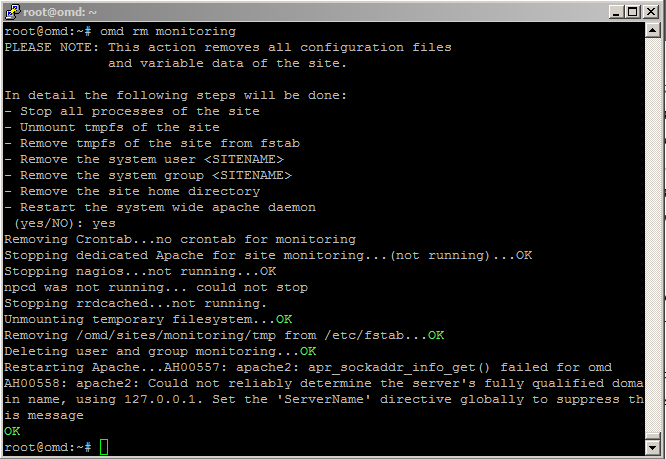
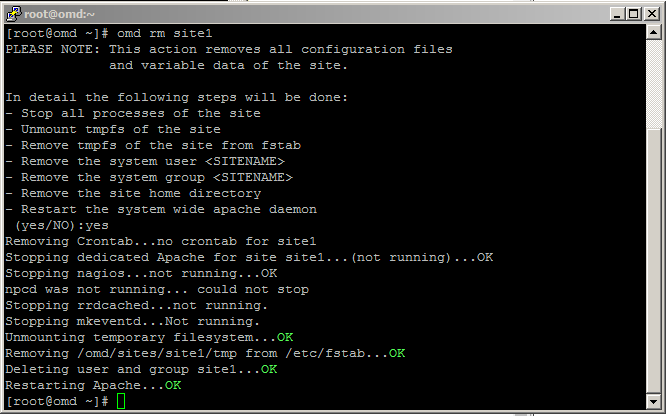
Update anh + cap nhat link

diff --git a/docs/Management-OMD.md b/docs/Management-OMD.md
@@ -75,7 +75,7 @@ Như vậy một site có tên là `monitoring` đã được tạo ra và phầ
 ### 3. Cấu hình site
 
 ```
-omd config monitoring
+omd config site1
 ```
 
 <img src="../images/22-site-config-1.png" />
@@ -105,7 +105,7 @@ Sau khi tạo xong `site`, chúng ta kích hoạt site đó và đăng nhập th
 #### Kích hoạt `site`
     
 ```
-omd start monitoring
+omd start site1
 ```
 
 <img src="../images/c7-4-active-site.png" />
@@ -113,24 +113,20 @@ omd start monitoring
 #### Truy cập vào Web UI và đăng nhập bằng `omdadmin/omd`
    
 ```
-http://địa-chỉ-ip/monitoring
+http://địa-chỉ-ip/site1
 ```
 
-<img src="../images/5.webui1.png" />
-   
-#### Chọn giao diện `Check_MK`
-   
-<img src="../images/6.webui2-checkmk.png" />
+<img src="../images/login-1.png" />
 
 Sau khi chọn xong, chúng ta sẽ thấy một giao diện khá hoàn hảo với đầy đủ những chức năng cần thiết.
 
-<img src="../images/7.webui-main.png" />
+<img src="../images/login-2.png" />
 
 <a name="5" ></a>
 ### 5. Xem trạng thái của site
 
 ```
-omd status monitoring
+omd status site1
 ```
 
 <img src="../images/22-site-status.png" />
@@ -143,11 +139,11 @@ Mặc định, user và password được cấp cho `site` mới là `omdadmin/o
 
 Vào Menu, trong `WATO - Configuration`, chọn `User` (1), chọn tiếp chỉnh sửa (2)
 
-<img src="../images/8.paas1.png" />
+<img src="../images/8.pass1.png" />
 
 Kéo xuống phần `Security` và thay đổi thông tin
 
-<img src="../images/8.paas2.png" />
+<img src="../images/8.pass2.png" />
 
 Sau đó bấm `SAVE` để lưu lại thông tin.
 
@@ -155,7 +151,7 @@ Sau đó bấm `SAVE` để lưu lại thông tin.
 ### 7. Dừng hoạt động của site
 
 ```
-omd stop monitoring
+omd stop site1
 ```
 
 <img src="../images/22-site-stop.png" />
@@ -164,7 +160,7 @@ omd stop monitoring
 ### 8. Xóa site
 
 ```
-omd rm monitoring
+omd rm site1
 ```
 
 Gõ `YES` để đồng ý xóa site.

diff --git a/docs/1.2.Setup-OMD-U16.04.md b/docs/1.2.Setup-OMD-U16.04.md
@@ -110,9 +110,9 @@ http://192.168.100.131/monitoring
 
 **Chú ý**: Thay địa chỉ IP của bạn vào đường dẫn và đăng nhập theo `omdadmin/omd`
 
-<img src="../images/c7-webui1.png" />
+<img src="../images/login-1-1.png" />
 
-<img src="../images/c7-webui2.png" />
+<img src="../images/login-2-1.png" />
 
 <a name="3"></a>
 ### 3. Tham khảo
@@ -131,4 +131,4 @@ Các bài viết tiếp theo:
 - [4. Đặt ngưỡng cảnh báo cho dịch vụ](4.Set-threshold.md)
 - [5. Cấu hình gửi mail cảnh báo sử dụng Gmail](5.Send-Noitify.md)
 - [6. Thêm plugin vào OMD](6.Add-plugins.md)
-- Bonus:[Quản lý các site trên OMD](Management-OMD.md)
+- **Bonus:** [Quản lý các site trên OMD](Management-OMD.md)

diff --git a/docs/1.1.Setup-OMD-CentOS7.md b/docs/1.1.Setup-OMD-CentOS7.md
@@ -122,9 +122,9 @@ http://192.168.100.131/monitoring
 
 **Chú ý**: Thay địa chỉ IP của bạn vào đường dẫn và đăng nhập theo `omdadmin/omd`
 
-<img src="../images/c7-webui1.png" />
+<img src="../images/login-1-1.png" />
 
-<img src="../images/c7-webui2.png" />
+<img src="../images/login-2-1.png." />
 
 
 <a name="3"></a>
@@ -139,4 +139,4 @@ Các bài viết tiếp theo:
 - [4. Đặt ngưỡng cảnh báo cho dịch vụ](4.Set-threshold.md)
 - [5. Cấu hình gửi mail cảnh báo sử dụng Gmail](5.Send-Noitify.md)
 - [6. Thêm plugin vào OMD](6.Add-plugins.md)
-- Bonus:[Quản lý các site trên OMD](Management-OMD.md)
+- **Bonus:** [Quản lý các site trên OMD](Management-OMD.md)
